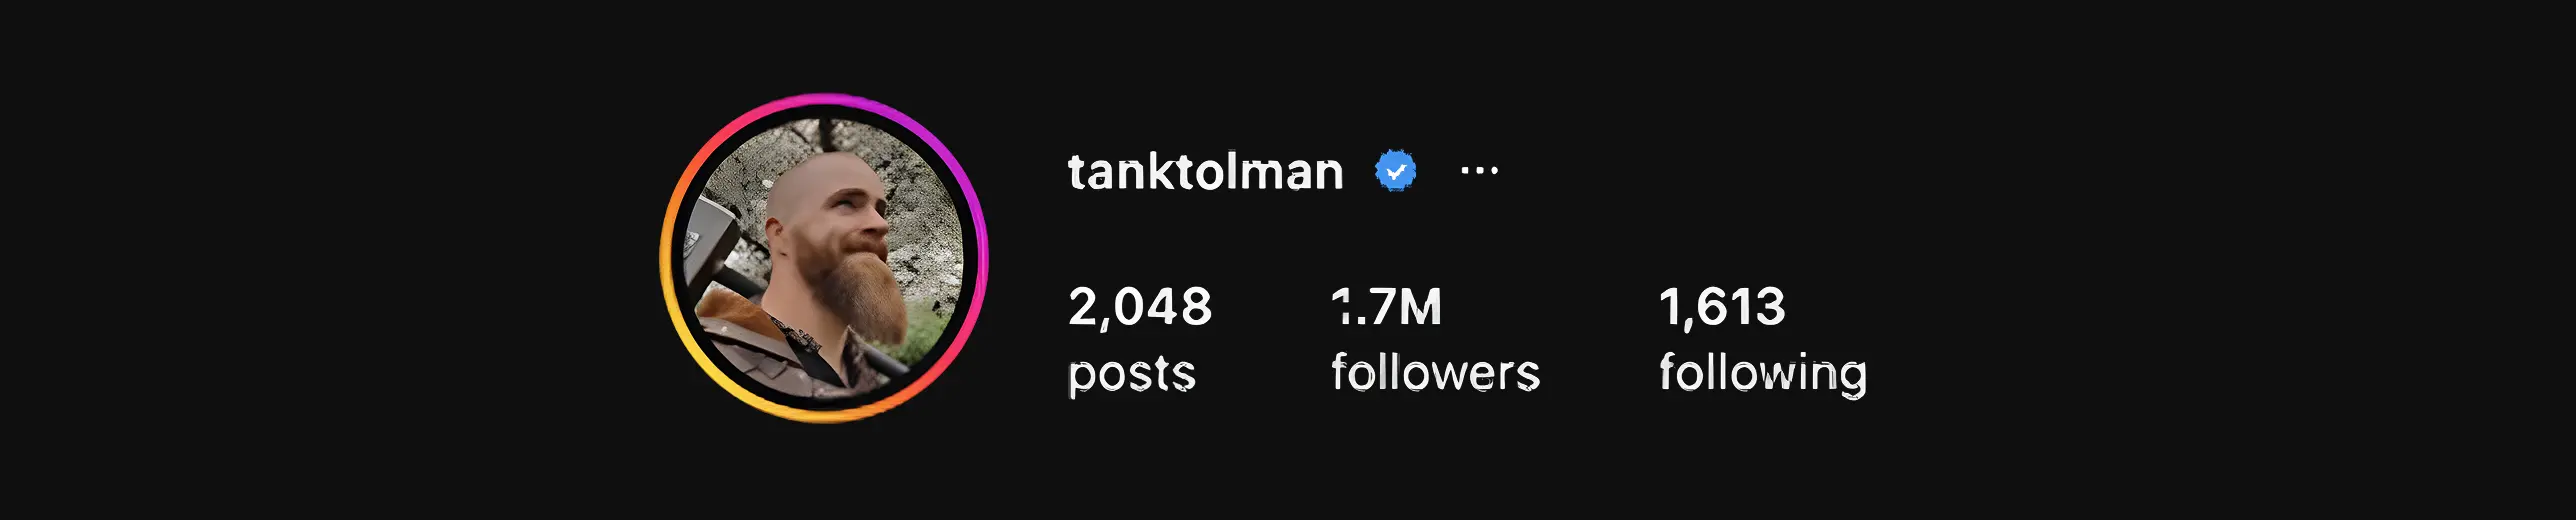
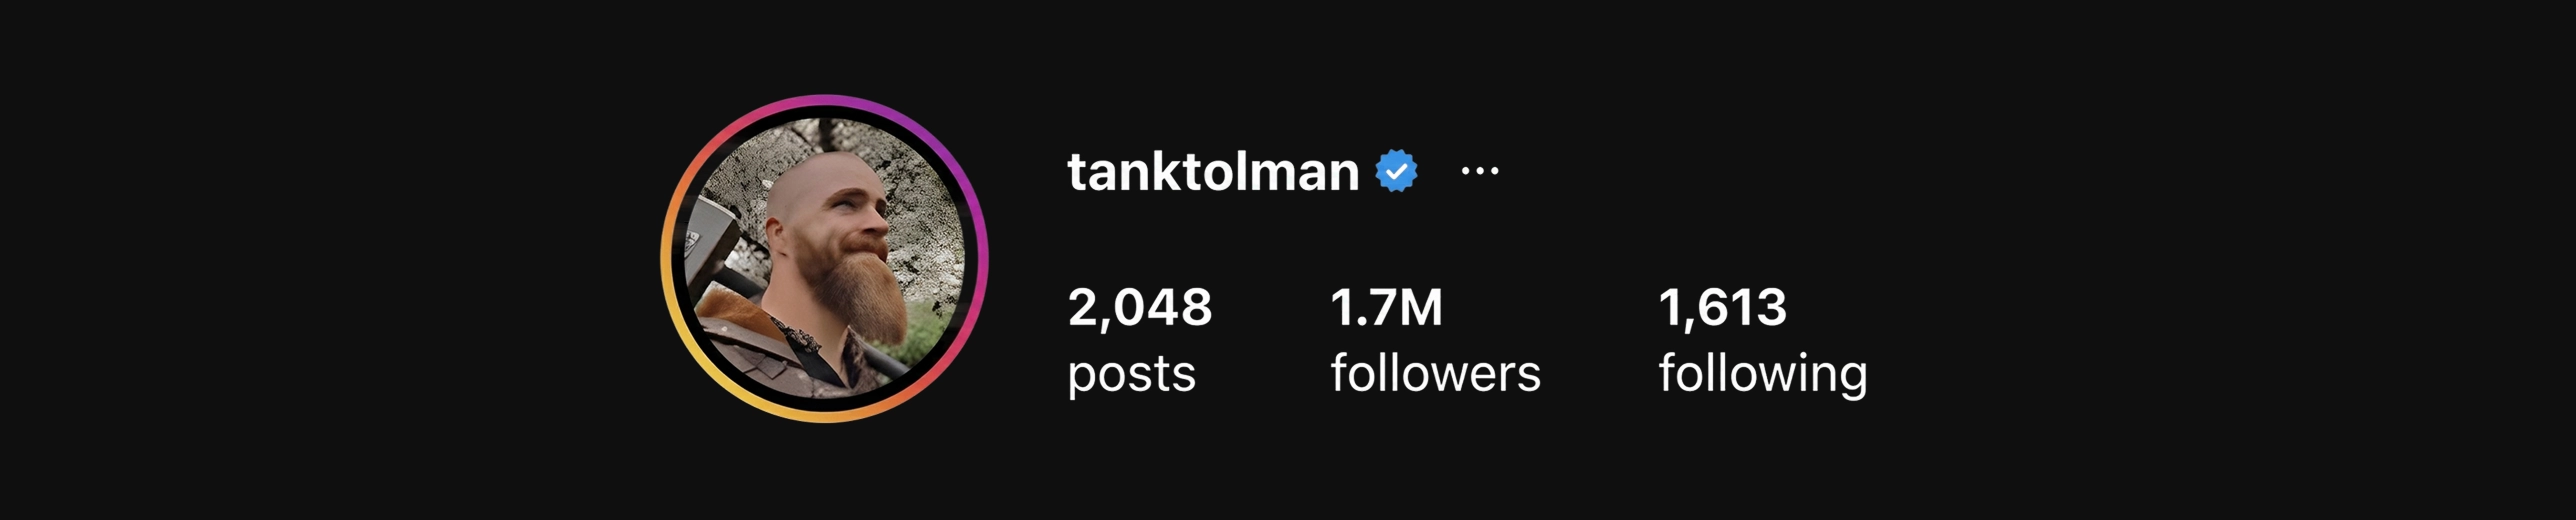
yet another review correction

diff --git a/constants/team.ts b/constants/team.ts
@@ -22,7 +22,7 @@ export const TEAM_MEMBERS: Record<string, TeamMember> = {
     name: "Brendan Kennedy",
     title: "Co-Founder/Executive Producer",
     image: "/images/j2.webp",
-    detailPage: true,
+    // detailPage: true,
     background: [
       "Brendan Kennedy is a producer and director with over 10 years of experience delivering video production across video game marketing, esports, and branded content. As CoFounder of ASH Entertainment, he leads the company's video production services alongside Co-Founder and Head of Business Development Dat Tran.",
       "He has a demonstrated history of working in the digital branded content world, having worked at Riot Games and produced content for Activision Blizzard, Bethesda, 2K, HoYoverse, and Krafton Games, among others. His experience in the gaming community has given him valuable insight into what players are looking for.",
@@ -36,7 +36,7 @@ export const TEAM_MEMBERS: Record<string, TeamMember> = {
     title: "Co-Founder/Head of Business Dev",
     image: "/images/j3.webp",
     detailedImage: "/images/dat-colored.webp",
-    detailPage: true,
+    // detailPage: true,
       
     background: [
       "Dat Tran is a producer and business development executive with over 10 years of experience delivering video production across music, gaming, and branded content. As Co-Founder of ASH Entertainment, he leads the company's video production services alongside Co-Founder and Executive Producer Brendan Kennedy, bringing a unique blend of traditional media and Hollywood studio experience to build an independent, creator-driven model grounded in real industry insight.",

diff --git a/pages/game-of-thrones-legends.vue b/pages/game-of-thrones-legends.vue
@@ -32,6 +32,13 @@
           of the franchise while highlighting the game's unique features.
         </h2>
       </div>
+
+      <div class="assassin_images_category">
+        <img src="/images/zynga1.webp" class="zynga1" alt="" data-desktop />
+      
+        <img src="/images/zynga1.webp" alt="" data-mobile />
+        
+      </div>
       <!-- <div class="assassin_approach">
         <h3 class="assassin_approach_left">
           <span class="assassin_span">[</span>OUR APPROACH<span
@@ -94,6 +101,11 @@
           </div>
         </div>
       </div>
+
+      <div class="assassin_images_category">
+        <img src="/images/a12.webp" alt="" data-desktop />
+        <img src="/images/a12.webp" alt="" data-mobile />
+      </div>
       <div class="result">
         <h2 class="result_header">[RESULTS]</h2>
         <div class="result_result">
@@ -131,11 +143,7 @@
       </div>
 
       <div class="assassin_images_category">
-        <img src="/images/zynga1.webp" class="zynga1" alt="" data-desktop />
-        <img src="/images/a12.webp" alt="" data-desktop />
         <img src="/images/a13.webp" alt="" data-desktop />
-        <img src="/images/zynga1.webp" alt="" data-mobile />
-        <img src="/images/a12.webp" alt="" data-mobile />
         <img src="/images/a13.webp" alt="" data-mobile />
       </div>
 

diff --git a/utils/constants.ts b/utils/constants.ts
@@ -57,10 +57,6 @@ export const NARAKA_EXECUTION_HIGHLIGHTS = [
     description: "Content posted across ASH channels (US) and NARAKA's official Bilibili, Xiaohongshu, and Douyin accounts (China)."
   },
   {
-    title: "BEHIND-THE-SCENES:",
-    description: "An in-depth look at the engineering and craftsmanship that brought a video game weapon to life."
-  },
-  {
     title: "SHORT-FORM SERIES:",
     description: "4 dedicated short-form videos across YouTube Shorts and TikTok, including one TikTok exceeding 400K views."
   },
@@ -131,7 +127,7 @@ export const ALBION_EXECUTION_IMPACT = [
   },
   {
     title: "EXPANDED REACH:",
-    description: "Reached beyond gaming into forging, fine art, cosplay, and prop-making audiences—boosting cross-audience visibility."
+    description: "Reached beyond gaming into forging, fine art, cosplay, and prop-making audiences, boosting cross-audience visibility. "
   },
   {
     title: "DEEPENED INVESTMENT:",

diff --git a/pages/work.vue b/pages/work.vue
@@ -4,9 +4,6 @@
     <div class="work_page_hero" aria-labelledby="work-page-heading">
       <div class="work_page_hero_inner">
         <h1 id="work-page-heading" class="work_page_hero_title">Our work</h1>
-        <p class="work_page_hero_tagline">
-          Some of the work that still makes us feel something.
-        </p>
       </div>
     </div>
     <div class="case_content work_page_case_content">
@@ -86,7 +83,7 @@
           </div>
         </div>
       </NuxtLink>
-      <NuxtLink href="/nakara-blade-point">
+      <NuxtLink href="/naraka-blade-point">
         <div class="case_one">
           <div class="brand_div">
             <h5>Brand</h5>

diff --git a/components/RelatedWork.vue b/components/RelatedWork.vue
@@ -28,7 +28,7 @@ const relatedItems: RelatedItem[] = [
   {
     href: '/assassin',
     imageSrc: '/images/assasin-work.webp',
-    title: "Assassin's Creed: Shadows",
+    title: "Assassin's Creed Shadows",
   },
   {
     href: '/the-elder-scrolls-online-gold-road',
@@ -41,9 +41,9 @@ const relatedItems: RelatedItem[] = [
     title: 'Game of Thrones: Legends',
   },
   {
-    href: '/nakara-blade-point',
+    href: '/naraka-blade-point',
     imageSrc: '/images/nakara-work.webp',
-    title: 'Naraka: Blade Point',
+    title: 'NARAKA: BLADEPOINT',
   },
   {
     href: '/doom-the-dark-ages',

diff --git a/styles/components/doom.scss b/styles/components/doom.scss
@@ -158,10 +158,16 @@
     margin-bottom: 1rem;
   }
 
-  .earned-media-panel {
-    max-height: fit-content;
-    min-height: 0;
-    overflow: hidden;
+  @include media(">=phone") {
+    .earned-media-panel {
+      flex: 1;
+      min-height: 0;
+
+      .doom_results_stat--compact {
+        flex: 1;
+        justify-content: center;
+      }
+    }
   }
 }
 
@@ -256,6 +262,9 @@
   }
 }
 
+.doom_results_influencer.doom_results_influencer--photo {
+  object-fit: contain;
+}
 .doom_results_panel_label {
   color: #fff;
   font-family: "Haas Grot Disp Trial";

diff --git a/components/Case.vue b/components/Case.vue
@@ -52,13 +52,13 @@
           </div>
         </div>
       </NuxtLink>
-      <NuxtLink href="/nakara-blade-point">
+      <NuxtLink href="/naraka-blade-point">
         <div class="case_one">
           <div class="brand_div">
             <h5>Brand</h5>
             <p>NetEase Games</p>
           </div>
-          <h3>Naraka: <br /><span class="shadows">Bladepoint</span></h3>
+          <h3>NARAKA: <br /><span class="shadows">BLADEPOINT</span></h3>
           <div class="readmore_div">
             <img
               src="/images/nakara-work.webp"

diff --git a/pages/assassin.vue b/pages/assassin.vue
@@ -76,7 +76,7 @@
         <p class="new_assassin_approach">[OUR APPROACH]</p>
         <div class="new_assasin_div">
           <p>
-            To ignite excitement for Assassin's Creed: Shadows at Ubisoft
+            To ignite excitement for Assassin’s Creed Shadows at Ubisoft
             Forward, we brought the games arsenal to life. Attendees including
             influencers and press, witnessed a live forging demonstration
             creating unique Kunai bottle openers and Nobunaga's insignia gold

diff --git a/pages/doom-the-dark-ages.vue b/pages/doom-the-dark-ages.vue
@@ -7,7 +7,7 @@
           <h3>Brand</h3>
           <p>Bethesda Softworks</p>
         </div>
-        <h3 class="project-heading">DOOM THE DARK <br> AGES</h3>
+        <h3 class="project-heading">DOOM: THE DARK <br> AGES</h3>
       </div>
       <video class="video_bgg" autoplay muted loop playsinline>
         <source

diff --git a/pages/naraka-blade-point.vue b/pages/naraka-blade-point.vue
@@ -7,7 +7,7 @@
           <h3>Brand</h3>
           <p>NetEase Games</p>
         </div>
-        <h3 class="project-heading">NARAKA <br> BLADEPOINT</h3>
+        <h3 class="project-heading">NARAKA: <br> BLADEPOINT</h3>
       </div>
       <video class="video_bgg" autoplay muted loop playsinline>
         <source
